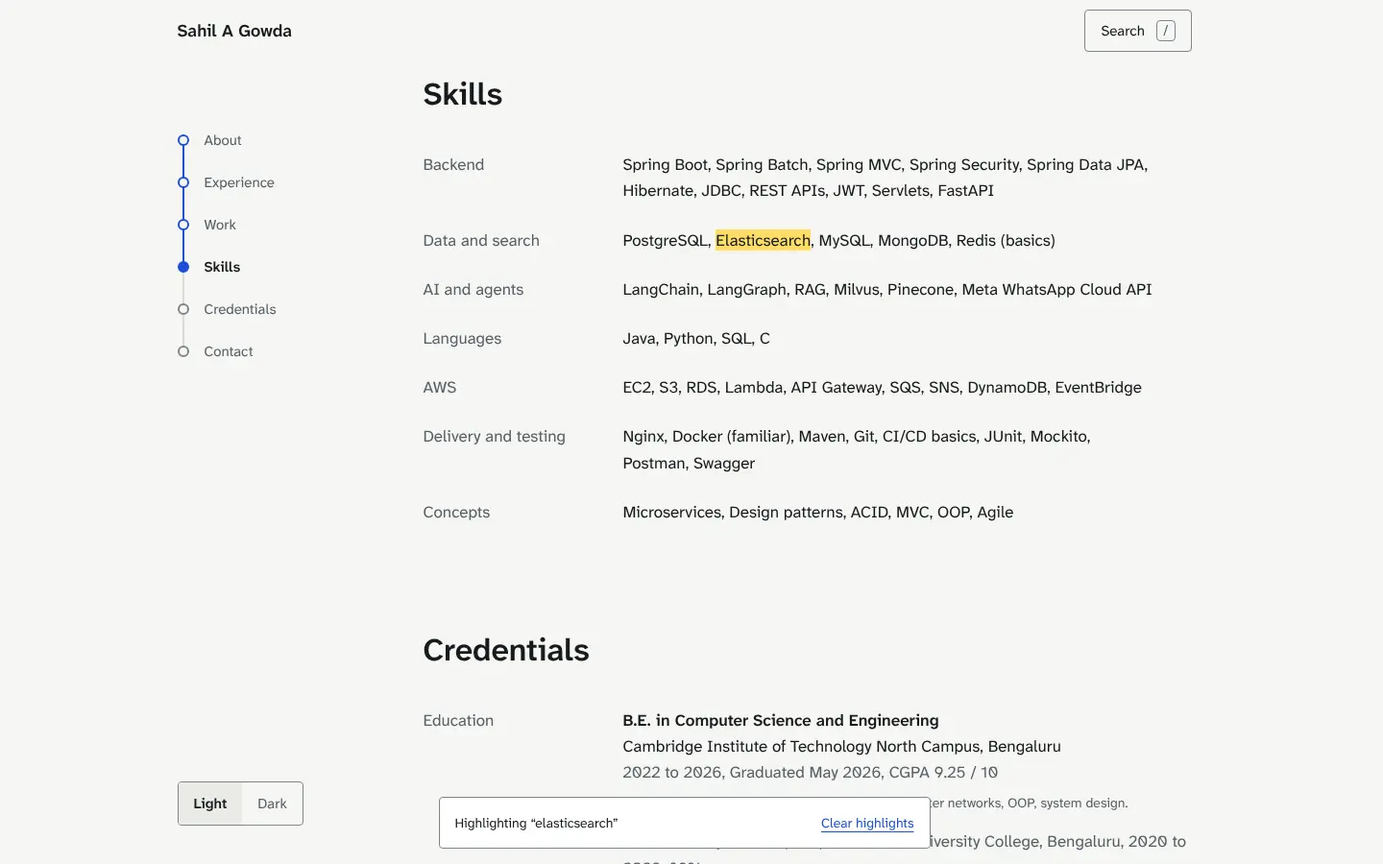
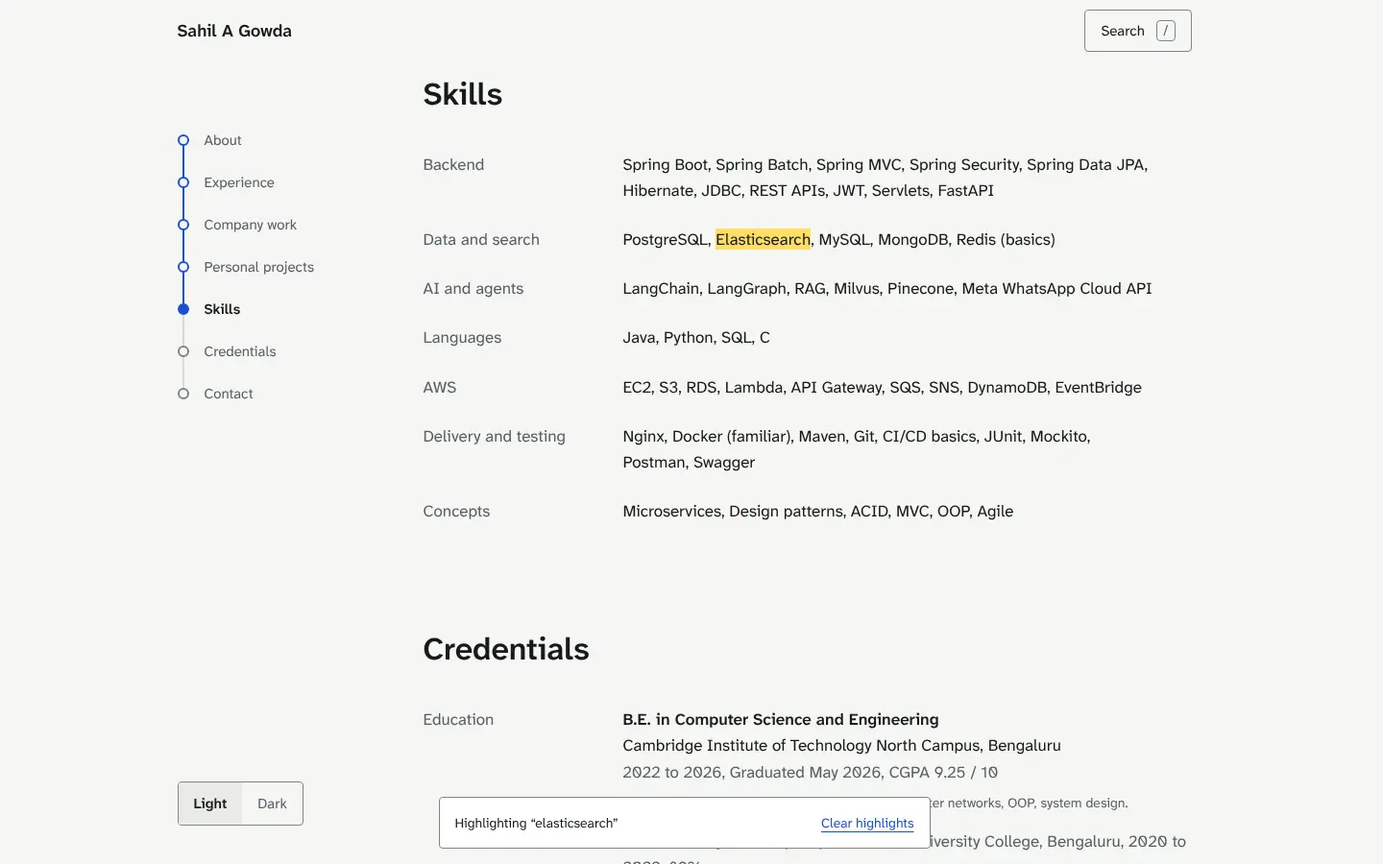
docs: design plan, sources, evidence and screenshots for the Company work split
- DESIGN_PLAN.md: a revision with what was wrong, the references (Pinterest
  and the portfolio sites were blocked by the network policy, so four public
  portfolios were read as text), four options and why one was chosen,
  desktop and phone wireframes, what was left out on purpose, and the
  accessibility notes.
- SOURCES.md: the new lines of text and the grouping, with the one open check
  (the 2024 railway system under Personal projects).
- EVIDENCE.md: section heights before and after, Lighthouse for the previous
  commit and this one measured back to back, axe, contrast, 49 behaviour
  checks, link check, and the open items for this change.
- Home screenshots retaken (three widths, both themes), before and after
  copies, close-ups of each section, and the search screenshots.
- link-check.tsv regenerated (84 links, 0 problems).

Claude-Session: https://claude.ai/code/session_01BAe9Xcf4g5TDwPVbYsfmix

diff --git a/docs/v2/DESIGN_PLAN.md b/docs/v2/DESIGN_PLAN.md
@@ -507,3 +507,131 @@ Added with the Digital Banking System case study (branch `feature/digital-bankin
 
 - **Kafka is a box.** The grammar says a cylinder is a store and a box is a job or service. A message broker is drawn as a box, a wide one under the five services, so every service reaches it with a short vertical arrow. A first version drew it as a drum; at 360 units wide, the arrows that met it off-centre stopped short of it in 3D, and two rows of services pushed the labels into each other.
 - **Dashed means Kafka, solid means REST.** The legend still says "asynchronous or a check", which is true here. Redis and MySQL are named in the steps and the text, not drawn, because Redis serves three services and MySQL three, and their arrows would cross the bus.
+
+## Revision, 17 October 2026 (second): Company work and Personal projects
+
+Asked for by Sahil on 17 October: "as the work is growing, can we distinguish between personal projects and company work ... rather than adding everything in a single scroll", and to design it "like a proper UI/UX designer". It is on its own branch, `design/split-company-work-and-personal-projects`, which starts from `feature/digital-banking-system` and so builds on it. It changes the home page's structure. A case-study page changes only in its back links.
+
+### What was wrong
+
+- "Selected work" was one list of nine projects: about half of the home page (4,088 of 8,504 px at 1440 wide; 7,385 of 13,665 px on a phone). The only sign of which were employer projects was a grey line under each title ("Work at DIATOZ", "Personal project"), which is easy to skip.
+- The two kinds answer different questions with different evidence. A reader of the company work wants scale and outcomes, and the evidence is a case study and a diagram, because the code is not public. A reader of the personal projects wants to read code, and the evidence is a repository. Both got the same row and the same button.
+- It would not scale. Each new project added a row with a diagram to one list, and the rail had a single "Work" stop for all of it.
+
+### References
+
+The brief suggested Pinterest. The container's network policy denies `pinterest.com` (and the portfolio sites I tried to open directly: `brittanychiang.com`, `leerob.io`, `rauno.me`, `awwwards.com`, `dribbble.com`), and there is no browser here to log into, so I could not look at Pinterest. What I could do is read the text of four public engineer portfolios through a page-reading tool. Text only, no screenshots, so they informed the structure and not the styling:
+
+- **brittanychiang.com**: experience as a dated list of roles, then a separate "Projects" section of cards, then a link to a full project archive.
+- **emilkowal.ski**: the employer in one sentence under "Today", then "Projects" (own products, one short entry each), then "Writing".
+- **rauno.me**: a short menu of destinations (Projects, Craft, Field notes), one per kind of thing.
+- **leerob.com**: the employer history in the bio, then plain lists of notes and posts.
+
+What they share: what happened at work is kept apart from what the person built on their own, each part is named for what a reader finds in it, and none hides one part behind a switch. If you can send two or three Pinterest pins (a screenshot or a link each), I will compare them with this page and change what they argue for.
+
+### Options
+
+1. **Tabs, or a switch ("Company work | Personal projects") in one section.** Shortest page. But the hidden half cannot be found by scrolling or Ctrl+F, a crawler that does not run script never sees it, the search and the rail would have to open the right tab, and a link to it needs state. Rejected.
+2. **Two sections with the same row.** Fixes wayfinding, but the page stays one long list of equal items. Too little.
+3. **Two sections, each with the presentation its evidence needs.** Chosen.
+4. **Two pages (`/work`, `/projects`).** Shortest home page, but it splits nine items across routes, adds a click for every reader, and moves the sitemap and the search targets, for little gain at this size. Worth revisiting if the list grows to a dozen or more.
+
+### Decision
+
+The home page now runs About, Experience, **Company work**, **Personal projects**, Skills, Credentials, Contact. The rail and the phone menu have seven entries, in that order.
+
+- **Company work** (`#work`, so old links still land here). A heading and one line: "Employer work, described in general terms. Code and data are not public. My public code is under Personal projects." (the last sentence links to the next section, so "not public" is not a dead end). Below, the five projects as before: diagram on the left, text and a filled "Read the full case study" button on the right. The "Work at DIATOZ" line under each title is gone, because the heading says it once.
+- **Personal projects** (`#personal`). A heading and one line: "Built outside work. Where a project has a repository, it is public." Below, a grid of cards, two across from 768 px and one on a phone. A card has the title (a link when there is a case study), the text, the stack, and its links at the bottom: an outline "Read the full case study" button and "Open repository". There are no diagrams on the cards: they are on the case-study pages, and the cards are what keeps this list short as it grows. "Open GitHub profile" moved here from the end of the old list, because the personal code is what it leads to.
+- **Weight.** Filled blue buttons and diagrams belong to the company work; outline buttons and bordered cards to the personal projects. Each group is recognisable from its shape without reading a label, and the label is not colour-only.
+- **Digital banking card.** Its card uses a shorter text (`blurb` in `projects.ts`): the first sentence of its summary, then one line about the saga. The full summary (three sentences, about 420 characters) would make this card much taller than the other three, which use their full summaries.
+- **Back links.** A company case study says "Back to company work" and a personal one "Back to personal projects", at the top and at the bottom, and each lands on its own section. The static page for each case study (the text shown without script) does the same. "Next case study" still follows one order through all seven.
+- **Search.** A result is labelled "Company work" or "Personal projects" instead of "Selected work", and the two sections can be found by name (try "personal projects", "company work" or "employer").
+
+### Wireframes
+
+Desktop, 1024 px and wider (the rail has seven stops; the page is 512 px shorter at 1440 wide):
+
+```
++--------------------------------------------------------------------------+
+|  Sahil A Gowda                                              [ Search /  ]|
+|                    |                                                     |
+|  o About           |  Company work                                       |
+|  |                 |  Employer work, described in general terms. Code    |
+|  o Experience      |  and data are not public. My public code is under   |
+|  |                 |  Personal projects.                                 |
+|  o Company work    |                                                     |
+|  |                 |  +-----------+  Master-data ingestion at 273        |
+|  o Personal        |  | diagram   |  million records                     |
+|    projects        |  |           |  Summary, four sentences             |
+|  |                 |  |           |  Stack: Java, Spring Batch, ...      |
+|  o Skills          |  +-----------+  [ Read the full case study ]  filled |
+|  |                 |                                                     |
+|  o Credentials     |  ... four more rows ...                             |
+|  |                 |                                                     |
+|  o Contact         |  Personal projects                                  |
+|                    |  Built outside work. Where a project has a          |
+|                    |  repository, it is public.                          |
+|                    |                                                     |
+|                    |  +--------------------+  +--------------------+     |
+|                    |  | Digital banking... |  | GmailSage          |     |
+|                    |  | short text         |  | summary            |     |
+|                    |  | Stack: ...         |  | Stack: ...         |     |
+|                    |  | [ Read the full    |  | [ Read the full    |     |
+|                    |  |   case study ]     |  |   case study ]     |     |
+|                    |  | Open repository    |  | Open repository    |     |
+|                    |  +--------------------+  +--------------------+     |
+|                    |  +--------------------+  +--------------------+     |
+|                    |  | Meet transcriber   |  | Railway Reservation|     |
+|                    |  | ...                |  | 2024  ...          |     |
+|  Theme: Light Dark |  | Open repository    |  |                    |     |
+|                    |  +--------------------+  +--------------------+     |
+|                    |  Open GitHub profile                                |
++--------------------------------------------------------------------------+
+```
+
+Phone (the flowline runs down the left edge; the menu has the same seven entries):
+
+```
++----------------------------+
+|  Sahil A Gowda  [Search][Menu]
+|  |
+|  o Company work
+|  | Employer work, ... My public
+|  | code is under Personal projects.
+|  | +------------------------+
+|  | | diagram, 344 wide      |
+|  | +------------------------+
+|  | Master-data ingestion ...
+|  | text, stack
+|  | [ Read the full case study ]
+|  | ... four more rows ...
+|  |
+|  o Personal projects
+|  | Built outside work. ...
+|  | +------------------------+
+|  | | Digital banking ...    |
+|  | | text, stack            |
+|  | | [ Read the full case   |
+|  | |   study ]              |
+|  | | Open repository        |
+|  | +------------------------+
+|  | ... three more cards, one under the other ...
+|  | Open GitHub profile
++----------------------------+
+```
+
+### Left out on purpose
+
+- **Diagrams on the cards.** The compact diagrams are drawn 320 to 344 units wide and 350 to 530 tall so that their labels stay legible. A card's text column is about as wide as that on a phone and narrower on a desktop, so a diagram would either shrink until its labels cannot be read or make the card as tall as a row.
+- **Dates on the cards.** Only two projects have a source for one (the banking project and the 2024 railway system), so a date on some cards and not others looks like an error. The railway card keeps its year.
+- **A "featured" banking card.** The banking project is first in the grid, as you asked, and its page is the richest of the four. A wider card would break the grid for one item.
+- **Aligning the text across a row of cards (subgrid).** It would tie the markup to the number of cards. The first row's titles differ by one line, which reads as ordinary card behaviour.
+- **Counts in the headings ("5 case studies").** One more number to keep in step with the data.
+- **Hiding the diagrams on phones.** It would take about 2,070 of the company list's 4,750 px off a phone, but the diagrams are the home page's strongest evidence, so I left the call to you.
+
+### Accessibility
+
+- Each section is a labelled region with an `h2`; every project title is an `h3`. The new intro line sits right after the `h2`.
+- A card is not one big link: it holds ordinary text, so it can be selected and read, and each action is its own link. Links to the same page (title and button) stay, as in the rows. "Open repository" now carries the project's title for screen readers ("Open repository for GmailSage"), because there are three on the page.
+- The outline button's border is 3.46:1 against the page in light and 4.24:1 in dark (3:1 needed). The card's own border is decorative and faint (1.28:1 and 1.37:1); the cards are told apart by spacing, not by the line, and every piece of text in them is measured in `EVIDENCE.md`.
+- Scroll-spy, the anchors and the move of focus to the section work for all seven stops. The rail needs about 520 px of window height (about 475 px with six entries); in a shorter window the rail itself scrolls, and the theme toggle is still reachable by keyboard.

diff --git a/docs/v2/after/EVIDENCE.md b/docs/v2/after/EVIDENCE.md
@@ -184,7 +184,56 @@ Asked for after `portfolio-v2` was merged into `main` and deployed. The change i
 1. **Read the blockers.** They are my wording of your message (the saga pattern, how Kafka works, what a real bank checks for). Change anything that does not sound like you. "When" says "about 29 September to 15 October 2026", keeping your "I guess".
 2. **Resume.** Not changed. It is one page and full, so adding this would mean cutting something (GmailSage did not fit either). Say if you want it swapped in.
 3. **Things I noticed in the repository** (the full list is in SOURCES.md; none is on the site): `verifyOtp` has no status check, so verifying a completed transfer refunds the sender again; the Razorpay webhook handler reads `orderId` and `paymentId` where Razorpay, I believe, sends `order_id` and `id`, and it does not check signatures; the OTP is made with `Math.random()`; the daily limit is stored but not enforced; the only tests are the generated ones.
-4. **Next, the design.** Splitting company work from personal projects is the next change, and it comes after this one.
+4. **Next, the design.** Done, on its own branch: see the next section.
+
+## Update, 17 October (second): Company work and Personal projects
+
+Asked for by you on 17 October ("distinguish between personal projects and company work ... rather than adding everything in a single scroll"). It is on its own branch, `design/split-company-work-and-personal-projects`, which starts from `feature/digital-banking-system` and builds on it. Nothing is merged and no pull request is open. The reasoning, the options and the wireframes are in [`../DESIGN_PLAN.md`](../DESIGN_PLAN.md) (last revision); the text and choices that are new are in [`../SOURCES.md`](../SOURCES.md) (last section). Same limits as above: local only.
+
+**What changed.** "Selected work" is now two sections. **Company work** holds the five DIATOZ projects as rows with their diagrams, as before, under a line that says what they are. **Personal projects** holds the four others as cards without diagrams. The rail and the phone menu have seven entries. Back links, search labels and the back links on the static pages follow the group. The files changed are `src/data/projects.ts` (the groups, a shorter text for the banking card, and `employerNote`, moved here from `caseStudies.ts`), `profile.ts` (the section list), `search.ts`, `vite.config.ts`, `Project.tsx`, `Index.tsx`, `Section.tsx`, `ProjectRow.tsx` and `WorkSection.tsx`, with three new components: `PersonalSection.tsx`, `ProjectCard.tsx` and `ProjectLinks.tsx` (the links a row and a card share). No dependency, and no file under `src/components/ui`.
+
+**Length.** Heights measured in Chromium on the previous commit and on this branch:
+
+| Width | Before: Selected work | After: Company work + Personal projects | Page before | Page after |
+|---|---|---|---|---|
+| 1440 px | 4,088 px | 2,529 + 936 = 3,465 px | 8,504 px | 7,992 px |
+| 768 px | 4,518 px | 2,608 + 1,000 = 3,608 px | 9,049 px | 8,219 px |
+| 390 px | 7,385 px | 4,754 + 1,861 = 6,615 px | 13,665 px | 12,975 px |
+
+The company rows are the same size. The saving comes from the four personal projects (rows with diagrams before, cards now) and from the "Work at DIATOZ" lines. At 1440 px the page is 512 px (6%) shorter, and the personal projects are now a section of their own, one click from the rail.
+
+**Cost.** Main JavaScript 295.5 to 297.5 kB (96.5 to 97.0 kB gzip), CSS 23.9 to 24.0 kB (5.83 to 5.85 kB gzip); the 3D and case-study chunks are unchanged. Lighthouse 13.5 on the home page, median of 3, with the previous commit and this branch built and measured back to back on the same machine and the same static server:
+
+| Build | Form | Perf | A11y | BP | SEO | FCP | LCP | TBT | CLS | Transfer |
+|---|---|---|---|---|---|---|---|---|---|---|
+| Previous commit | Mobile | 98 | 100 | 100 | 100 | 1.35 s | 1.80 s | 129 ms | 0 | 135.0 kB |
+| Previous commit | Desktop | 100 | 100 | 100 | 100 | 0.34 s | 0.38 s | 0 ms | 0 | 135.0 kB |
+| This branch | Mobile | 99 | 100 | 100 | 100 | 1.40 s | 1.70 s | 67 ms | 0 | 135.5 kB |
+| This branch | Desktop | 100 | 100 | 100 | 100 | 0.34 s | 0.39 s | 0 ms | 0 | 135.5 kB |
+
+I read this as no change: the machine's benchmark index ranged from 1,725 to 2,742 across the twelve runs, and mobile blocking time ranged from 64 to 148 ms across the six mobile runs.
+
+**Accessibility and behaviour**
+- **axe-core: 0 violations** in 28 runs: the home page, the banking page and a company case study (master-data ingestion), each case study in three states (3D, 3D with a step selected, flat with a step selected), light and dark, at 1440 and 390 px. The only "needs review" item is colour contrast of text over SVG or WebGL, measured in the sections above.
+- **Contrast of the new elements**, from computed styles in both themes: every piece of text in a card and every intro line is 6.01:1 or better against the page (the card text itself 15.3 to 16.1:1); the outline button's text is 15.3 to 16.1:1 and its border 3.46:1 in light and 4.24:1 in dark (3:1 needed). The card's own border is decorative: 1.28:1 and 1.37:1.
+- **49 behaviour checks pass** with a clean console. Both sections have the right projects, no diagram sits in a card, and no "Selected work" or repeated origin line is left. The rail lists the seven sections in order, and each rail link lands on its section with focus moved to it. Scroll-spy names each section with its top at 30% of the window, and Contact at the page bottom. The link under the Company work heading jumps to Personal projects. The phone menu has seven items of 44 px, fits the window, lands on the section and closes. "Back to company work" and "Back to personal projects" work from four case studies, at the top and at the bottom, and the "Next case study" chain still visits all seven in order. Search finds the two sections by name ("personal projects", "company work", "employer"), labels every project result with its group, shows no "Selected work" anywhere, and a "railway" result lands on `#personal` with the hit highlighted. Keyboard: the company section has 11 tab stops (the intro link, then a title and a button for each of five rows) and the personal section 8 (banking 3, GmailSage 3, the Meet transcriber 1, the GitHub profile 1; the railway card has no link), and the first four stops after an anchor show the 2 px ring. Tap targets in both sections are 44 px; the exceptions are text links inside a sentence and project titles that link to a page that also has a 44 px button.
+- **Rail on short windows:** it fits at 1440 by 900, 1280 by 720, 1024 by 768 and 1024 by 600. At 1100 by 480 it needs 518 px, so the rail scrolls itself and the theme toggle is still reachable (it was about 475 px with six entries).
+- **No horizontal scroll** at 320, 360, 390, 414, 600, 768, 900, 1024, 1180, 1280, 1440, 1600 and 1920 px on the home page, the banking page and a company page.
+- **Link check:** 84 links, 5 unverifiable (the profile sites, as before), 0 problems; `#work` and `#personal` both have targets. `link-check.tsv` was regenerated: the previous file predated the banking page's "Blockers" link.
+- **Static pages:** the built `projects/*.html` files link back to `/#work` ("Back to company work") for the five company studies and to `/#personal` ("Back to personal projects") for the two personal ones.
+- **Unused code:** knip finds no unused file; the one new unused type export it flagged was un-exported.
+
+**Screenshots** (`*.webp` in this folder): the home page at three widths in both themes (retaken), `home-before-split-*` for comparison (light, 1440 and 390 px), `split-work-*` and `split-personal-*` (the view after following each section's anchor), and the search screenshots (retaken: the results now say "Company work").
+
+**What I could not test.** Pinterest: the container's network policy denies it and there is no browser here to log into, so the references were the text of four public portfolios (see the design plan). The Vercel preview of this branch, a real phone, and a screen reader: I checked accessible names, order and focus through the page, not by listening to it.
+
+**Open items for this change**
+1. **The railway system.** It sits under Personal projects because it is not company work and it predates DIATOZ. If you built it for college, say so and I will move it or rename the section; its card shows only "2024", not the words "personal project".
+2. **Read the new words.** The line under each heading ("Employer work, described in general terms. Code and data are not public. My public code is under Personal projects." and "Built outside work. Where a project has a repository, it is public.") and the banking card's shorter text. They are in `src/data/projects.ts`.
+3. **Pinterest.** If you want me to compare against pins you like, send two or three as screenshots or links, or allow the host under the environment's Network access. I would still need you to log in for anything behind a login.
+4. **Merge order.** This branch builds on `feature/digital-banking-system`. Merge that one first (an ordinary merge commit), then this one. Merging this one alone brings the banking commits with it.
+5. **Noticed, not changed.** If you paste a section link such as `/#personal` into the address bar of a tab that is already on the home page, the page stays at the top instead of jumping to the section. The previous commit does the same with `/#work`, so it is not from this change, and I did not look into it further. Clicking a link, the rail, the phone menu, a "Back to" link, a search result and opening a section link in a new tab all land correctly.
+6. **Left for you:** hiding the diagrams on phones (about 2,070 of the company list's 4,750 px) and moving the personal projects above the company work are small changes (two lines each in `Index.tsx` and `profile.ts` for the move) if you want a shorter or a different first impression.
 
 ## Open items for Sahil
 

diff --git a/docs/v2/SOURCES.md b/docs/v2/SOURCES.md
@@ -64,7 +64,7 @@ Source: the public repository `SahilAGowda/Digital-Banking-System`, read from a 
 
 | On the site | Source |
 |---|---|
-| The project, its place in Selected work as a personal project, the repository link | Your message of 17 October ("as a personal project I have built the Digital-banking-system", with the GitHub link). It is first among the personal projects because it is the newest and the most on-stack; one line in `src/data/projects.ts` moves it |
+| The project, its place among the personal projects, the repository link | Your message of 17 October ("as a personal project I have built the Digital-banking-system", with the GitHub link). It is first among the personal projects because it is the newest and the most on-stack; one line in `src/data/projects.ts` moves it |
 | "Built from about 29 September to 15 October 2026" | Your message of 17 October ("I started working from September 29 I guess, I completed it on October 15"); "about" keeps your "I guess". The repository's single commit is dated 15 October |
 | "I built the six services, the gateway routes and the Docker Compose setup" | Your message ("I have built"), the repository's single author, and `docker-compose.yml` (Redis 7.4, ZooKeeper, Kafka, MySQL 8.4); you confirmed it ("yes I know it's correct") |
 | Six services (gateway, account, transaction, payment, fraud detection, notification) | The six modules and the README's service table. Ports are not on the site |
@@ -90,3 +90,17 @@ Source: the public repository `SahilAGowda/Digital-Banking-System`, read from a 
 - **Unusual-amount rule.** The running average is updated as (old average + amount) / 2. The reason string in the code says "3 times" while the setting is 5; the site uses the setting.
 - **Not on the site, because the code does not do it.** The daily transaction limit is stored and returned but never enforced. The payment webhook does not check Razorpay's signature (a `webhook-secret` setting exists but nothing reads it). The payment and notification services declare a mail starter that nothing uses. The only tests are the generated `contextLoads` ones.
 - **Noticed while reading, for you, not on the site.** (1) `TransactionService.verifyOtp` never checks the transfer's status, so calling it for a transfer that already completed (no OTP key exists) takes the "expired" path and refunds the sender a second time. (2) The webhook handler reads `orderId` and `paymentId` from Razorpay's payload; as far as I know Razorpay's names are `order_id` and `id`, which I did not test. (3) The OTP comes from `Math.random()`. (4) `AccountController.blockAccount` has a `@PutMapping` with no `{accountNumber}` in its path, so that endpoint cannot work; the blocking that matters goes through Kafka.
+
+## Company work and Personal projects (added 17 October 2026)
+
+This change adds structure, not facts: the project texts are the ones above. The rows below are the text and the choices that are new. "Your message of 17 October" is the one that asks to "distinguish between personal projects and company work which I did".
+
+| On the site | Source |
+|---|---|
+| The two groups, "Company work" and "Personal projects", and which project is in which | Your message of 17 October. A project built at DIATOZ is company work (`origin: "DIATOZ"`, as it already was); every other project is a personal project |
+| **check** The Railway Reservation System (2024) under Personal projects | The resume lists it as a 2024 project with no employer, and it is older than the DIATOZ internship (October 2025). No source says whether you built it on your own or for college. Its card shows only the year, not the words "personal project", but the section heading is what calls it personal. Tell me if it should be labelled differently and I will move it or rename the section |
+| Under Company work: "Employer work, described in general terms. Code and data are not public." | The sentence every DIATOZ case study already carries (`employerNote`), which follows from your confidentiality instructions. It now also sits under the heading |
+| Under Company work: "My public code is under Personal projects." | A pointer to the next section, whose cards link the public repositories. It claims nothing about the employer's code |
+| Under Personal projects: "Built outside work. Where a project has a repository, it is public." | "Public repositories only" is the rule in `projects.ts`, and the three linked repositories answer 200 without signing in (`link-check.tsv`). "Built outside work": GmailSage (your message of 9 October: "a fun project", unrelated to work), the Digital Banking System (your message of 17 October: "as a personal project"), the Meet transcriber (labelled personal when it was added), and the railway system (the **check** above) |
+| The Digital banking card's shorter text: "Six Spring Boot services behind an API gateway. A transfer runs as a saga over Kafka: a fraud service checks it, and a suspicious one waits for an OTP." | A shortening of the project's summary, which is traced in the section above. It adds no fact. The other three cards use their full summaries |
+| "Back to company work", "Back to personal projects", the two names in the rail, the phone menu and the search | Labels |
